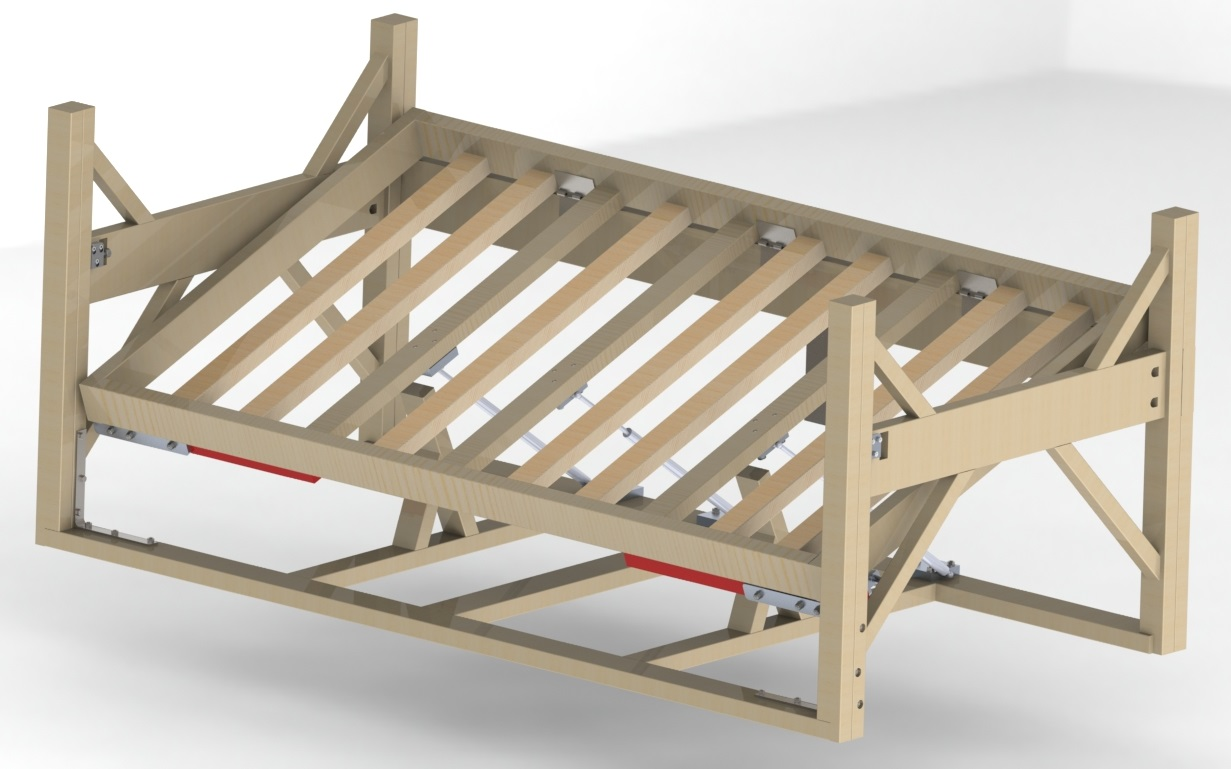
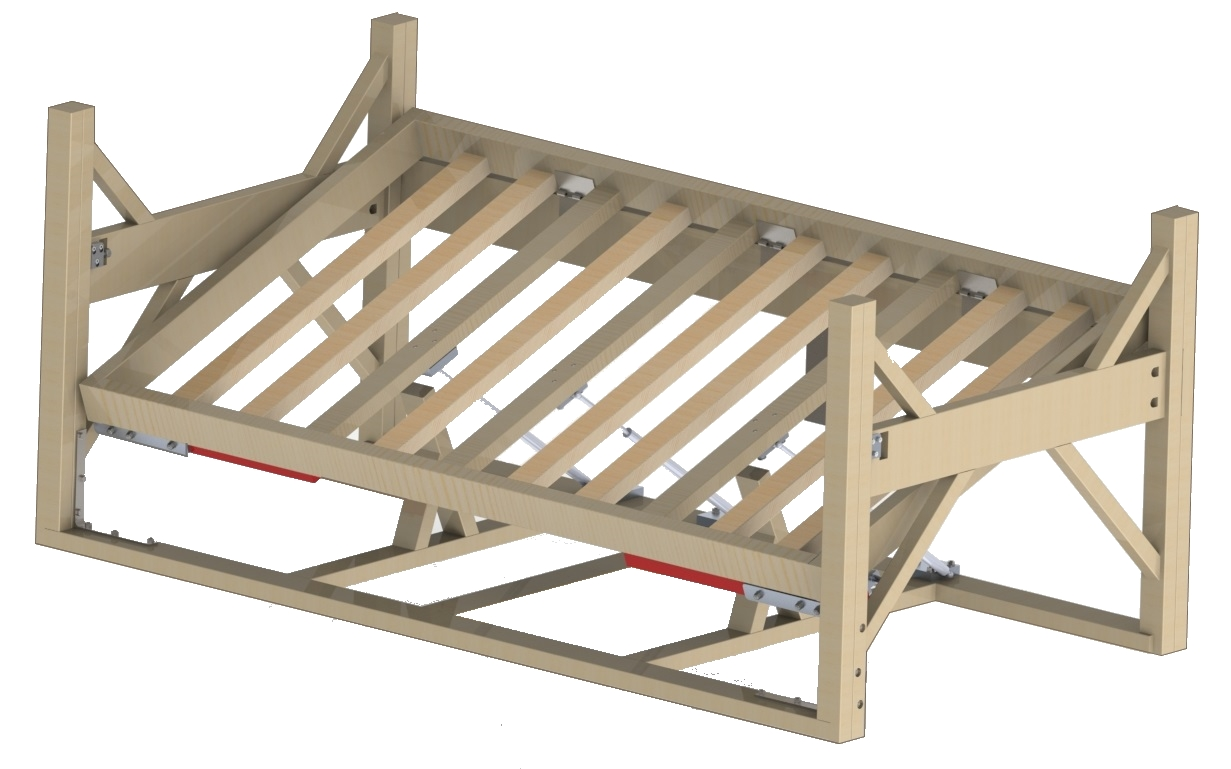
oct 25 update

diff --git a/index.html b/index.html
@@ -117,7 +117,7 @@
         <div class="row">
 		  <div class="col toronto align-self-center"></div>
           <div class="col-8">
-            <p class="lead mb-2">My name is Kelvin and I am a prospective PhD student. Currently, I am a masters student at the University of Toronto pursuing research in the fields of organ-on-a-chip, bioprinting, and tissue engineering. I completed my bachelors at the University of Waterloo in Mechanical Engineering.  Please feel free to browse through my collection of engineering-focused projects I have worked on over the last 3 years. I have indicated where necessary the work I take zero credit for.</p>
+            <p class="lead mb-2">My name is Kelvin and I am a prospective PhD student. Currently, I am a master's student at the University of Toronto pursuing research in the fields of organ-on-a-chip, bioprinting, and tissue engineering. I completed my bachelor's degree at the University of Waterloo in Mechanical Engineering.  Please feel free to browse through my collection of engineering-focused projects I have worked on over the last 3 years. I have indicated where necessary the work I take no credit for.</p>
           </div>
 		  <div class="col waterloo align-self-center"></div>
         </div>
@@ -140,7 +140,7 @@
 				<h2>Reconfigurable Display </h2>
 				<h3 class="mb-2">Can you fit a laptop into your pocket? </h3>
 				</div>
-					<p>Moore's law drives technological advancement to make electronics smaller, true for most cases.  Yet, the cellphone, arguably the most pervasive electronic device, defies this trend.  Why is this?  One reason is the trade-off between convenience and practicality.  People would rather carry around a lightweight phone in their pocket.  Most people also want large electronic displays, which offer more utility.  The electronic display is the geometric constraint of cell phones, tablets, and laptops.  A device with a reconfigurable display would maximize the convenience and utility benefit of electronic devices.</p>
+					<p>Moore's law drives technological advancement to make electronics smaller, true for most cases.  However, the cellphone, arguably the most pervasive electronic device, defies this trend.  Why is this?  One reason is the trade-off between convenience and practicality.  People would rather carry around a lightweight phone in their pocket.  Most people also want large electronic displays, which offer more utility.  The electronic display is the geometric constraint of cell phones, tablets, and laptops.  A device with a reconfigurable display would maximize the convenience and utility benefit of electronic devices.</p>
 					<p>The general approach in this research field is to place rigid LEDs on soft flexible, stretchable substrates (see figure below).  The key issue with this approach is once the substrate is stretched, the pixel density decreases, reducing the image quality. Also, this approach is dependent on the substrate's mechanical properties, which diminish when stretched.  This project proposes a different approach to this problem. </p>
 				<div class="row">	
 					<figure class="figure col-5">
@@ -179,7 +179,7 @@
 					</figure>
 					<figure class="figure col-5 text-center">
 						<img src="./img/reconfigurable display/link.PNG" class="img-fluid mb-2"></img>
-						<figcaption class="figure-caption text-justify" style="color:white">Upon expansion, the bottom islands need to rise to the top level.  This is done by linking islands on different levels through rigid beams.  The design is constrained to allow 1 DOF between 2 coupled islands. </figcaption>
+						<figcaption class="figure-caption text-justify" style="color:white">Upon expansion, the bottom islands need to rise to the top level.  This is done by linking islands on different levels through rigid beams.  The design is constrained to allow 1 degree of freedom between 2 coupled islands. </figcaption>
 					</figure>
 					<figure class="figure col-3 text-center">
 						<img src="./img/reconfigurable display/hoberman.gif" class="img-fluid rounded-circle mb-2" style="height:12rem"></img>
@@ -225,10 +225,10 @@
 					<div class="col-6 text-center"><img src="./img/reconfigurable display/2x2-lights.png" class="img-fluid" style="height:12rem"></img>
 					<p class="text-justify">The figure on the left shows the expansion and collapsing of a 2x2 version of the reconfigurable display. The figure in the middle shows the scalability of the display using the current prototype manufacturing method of 3D printing.  The prototype's height can be scaled to under a centimetre.  The figure on the top right demonstrates the constant pixel density after expansion.  The green lights show the pixels on the original top layer and the red lights are from the bottom layers.  
 					</p>
-					<p class="text-justify"> This limitation of this design is the large height.  The height to pixel area needs to be reduced, or else these displays would be cube-like objects.  Nevertheless, this design shows a different, counterintuitive approach to flexible displays.</p>					
+					<p class="text-justify"> The limitation of this design is the large height.  The height to pixel area needs to be reduced, or else these displays would be cube-like objects.  Nevertheless, this design shows a different, counterintuitive approach to flexible displays.</p>					
 					</div>
 				</div>	
-				<p><i>*Figures on this slide were taken from <a href="https://doi.org/10.1002/admt.201800344" style="color:white" target="_blank"><u>this paper</u></a>.</i></p>
+				<p><i>*Figures from <a href="https://doi.org/10.1002/admt.201800344" style="color:white" target="_blank"><u>Qaiser et al., Adv. Mater. Technol. (2018)</u></a>.</i></p>
 			</div>
 		</div>
 		<a class="carousel-control-prev" href="#discar" role="button" data-slide="prev">
@@ -335,7 +335,7 @@
 					</div>
 					<div class="col-6">
 						<h4>Static Balance Assessment</h4>
-						<p>An individual is asked to stand on the force plate with their eyes closed as still as possible for 100 seconds. During this time, a centre of position (COP) time series will record and track the involuntary sway of the individual.  For these studies, three performance indicators are taken: root means squared in the (1) anterior-posterior (front to back) and (2) medial-lateral (side to side) direction, and (3) 95% confidence ellipse of the data.</p>
+						<p>An individual is asked to stand on the force plate with their eyes closed as still as possible for 100 seconds. During this time, a centre of position (COP) time series will record and track the involuntary sway of the individual.  For these studies, three performance indicators are taken: root means squared (RMS) in the (1) anterior-posterior (front to back) and (2) medial-lateral (side to side) direction, and (3) 95% confidence ellipse of the data.</p>
 					</div>
 				</div>
 				<div class="row">
@@ -359,7 +359,7 @@
 					<div class="col-6">
 					<p class="mb-4">Seven able-bodied individuals ran through the training session to test the effectiveness of the system. Three out of four games (y-axis) showed bivariate correlation between balance ability (x-axis), indicating the games were appropriately designed.</p> 
 					<h4 class="mb-2">Future Direction</h4>
-					<p>One problem was the clustering of game scores for some games (the y-axis ranges for the ellipse and colour matching games are lower). This made it difficult to distinguish an individual's balance ability with game scores. Immediately after the trial run, this problem was addressed by changing the scoring system to favour individuals who could keep their balance position closer to the centre of the game targets.</p> 
+					<p>One problem was for some games (ellipse and colour matching), everyone had high scores. This made it difficult to distinguish an individual's balance ability with game scores. Immediately after the trial run, this problem was addressed by changing the scoring system to favour individuals who could keep their balance position closer to the centre of the game targets.</p> 
 					<p>The next step would be to conduct another trial run on able-bodied participants, this time incorporating functional electrical stimulation with visual feedback training.  Once done and further system optimizations are performed, the system would be used for clinical trials on individuals with spinal cord injuries to determine the effectiveness of this rehabilitation tool.</p>
 					</div>
 				</div>
@@ -415,12 +415,12 @@
 						<div class="col-7">
 						<h5>1) Mould Design</h5>
 						<img src="./img/microfluidics and bioprinting/device design.png" class="img-fluid" style="height:9rem" align="left"></img>
-						<p>The first step is design.  A reusable mould is typically involved to make multiple devices, so the design is often of the mould instead of the final device.  Here, a 3-layer microfluidic device is shown.  The top and bottom layers are hot embossed, while the middle layer contains lasercut through holes to connect between layers.  The black holes are through holes, the green patterns are alginate channels, and the light blue patterns are CaCl<sub>2</sub> channels.  The centre through holes on the top and bottom layer are for the fluidic inlets.  Fluid flows from the centre of the device and exits at the 16 outlets at the perimeter.</p>
+						<p>The first step is design.  A mould is typically used to make multiple devices, so the design is often of the mould instead of the device.  Here, a 3-layer microfluidic device is shown.  The top and bottom layers are hot embossed, while the middle layer contains lasercut through holes to connect between layers.  The black holes are through holes, the green patterns are alginate channels, and the light blue patterns are CaCl<sub>2</sub> channels.  The centre through holes on the top and bottom layer are for the fluidic inlets.  Fluid flows from the centre of the device and exits at the 16 outlets at the perimeter.</p>
 						</div>
 						<div class="col-5 text-center">
 						<h5>2) Mould Making</h5>
 							<img src="./img/microfluidics and bioprinting/mould making.png" class="img-fluid rounded"></img>
-							<p class="text-justify">Two moulds are required to create the top and bottom layers. a) A PMMA master is micro-milled. (b) An epoxy-based resin is poured onto the master and fills in the cavities. (c) After setting, the stiff elastomeric epoxy is removed from the master and the epoxy mould is created.</p>
+							<p class="text-justify">Two moulds are required to create the top and bottom layers. (a) A PMMA master is micro-milled. (b) An epoxy-based resin is poured onto the master and fills in the cavities. (c) After setting, the stiff elastomeric epoxy is removed from the master and the epoxy mould is created.</p>
 						</div>
 					</div>
 			</div>
@@ -432,7 +432,7 @@
 						<div class="col-5" style="border-right: 2px solid #ccc">
 							<h5>3) Pattern Transfer </h5>
 							<img src="./img/microfluidics and bioprinting/embosser.png" class="img-fluid rounded"></img>
-							<p>The hot embossing process is shown in the schematic, where a mould is pressed against a PMMA slab. The right image shows the resulting embossed PMMA layer.
+							<p>The hot embossing process is shown in the schematic, where a mould is pressed against a PMMA slab. The right image shows the resulting embossed PMMA layer, a replica of the PMMA master.
 							</p>
 							<h5>4) Assembly </h5>
 							<img src="./img/microfluidics and bioprinting/assembled.png" class="img-fluid rounded" align="left" style="height:9rem"></img>
@@ -456,7 +456,7 @@
 								<div class="col-6">
 									<img src="./img/microfluidics and bioprinting/10-dessert.PNG" class="img-fluid rounded" style="height:10rem"></img>
 								</div>
-								<p class="col-6">Here is our dessert on some ice cream.  The dish that was attempted was an Indian dessert, kulfi falooda. For sanitary reasons, the fibers were extruded differently for consumption.</p>
+								<p class="col-6">Falooda is a sugary vermicelli-like fiber. Here are our fibers on some ice cream with an attempt to make an Indian dessert, kulfi falooda. For sanitary reasons, the fibers were extruded differently for consumption.</p>
 							</div>
 						</div>						
 					</div>
@@ -465,7 +465,7 @@
 				<div class="content-section-heading">
 				<h2 class="mx-auto mb-3">Bucatini!</h2>
 				</div>
-					<p>Bucatini is a tube-shaped pasta made from an extrusion process.  With a PDMS microfluidic device, we can produce candied micro-bucatini (alginate-based tubes with sub-millimeter diameters). <a href="https://patents.google.com/patent/US20160068385A1/en" style="color:white" target="_blank"><u>Refer here</u></a> for details on the microfluidic device. Apart from shrinking food to alter taste perception, a dish can be elevated through presentation. Through the controlled deposition of our bucatini extrusion, we can impress with presentation, psychologically enhancing the perception of taste.</p>
+					<p>Bucatini is a tube-shaped pasta made from an extrusion process.  With a PDMS microfluidic device, we can produce candied micro-bucatini (alginate-based tubes with sub-millimeter diameters). <a href="https://patents.google.com/patent/US20160068385A1/en" style="color:white" target="_blank"><u>Refer here</u></a> for details on the microfluidic device. Apart from shrinking food to alter food texture, a dish can be elevated through presentation. Through the controlled deposition of our bucatini extrusion, we can entice with presentation, psychologically enhancing the perception of taste.</p>
 					<div class="row text-center">
 						<div class="col-6">
 							<img src="./img/microfluidics and bioprinting/printer.png" class="img-fluid rounded" style="height:17rem"></img>
@@ -518,7 +518,7 @@
     </section>
 	
 	<!-- Car Side Mirror -->
-	 <section class="portfolio bg-info text-white text-center" id="car">
+	 <section class="portfolio bg-danger text-white text-center" id="car">
       <div class="container carousel slide" id="carcar" data-ride="carousel" data-interval="0">
 	  <ol class="carousel-indicators">
 		<li data-target="#carcar" data-slide-to="0" class="active"></li>
@@ -620,7 +620,7 @@
     </section>
 
     <!-- Tilting Alarm Bed -->
-	<section class="portfolio bg-danger text-white text-center" id="bed">
+	<section class="portfolio bg-info text-white text-center" id="bed">
       <div class="container carousel slide" id="bedcar" data-ride="carousel" data-interval="0">
 	  <ol class="carousel-indicators">
 		<li data-target="#bedcar" data-slide-to="0" class="active"></li>
@@ -644,7 +644,7 @@
 				</div>
 					<div class="row">
 						<div class="col-8">
-						<img src="./img/tilting alarm bed/render.JPG" class="img-fluid rounded"></img>
+						<img src="./img/tilting alarm bed/render.png" class="img-fluid rounded"></img>
 						</div>
 						<div class="col-4 align-self-center">
 						<p>Introducing the solution to all your morning problems.  A bed that literally kicks you out of bed.  The tilting alarm bed acts as a normal bed unless the alarm is triggered.  Once activated, a latch mechanism retracts causing one side of the bed to tilt over along with you.   The bed will no longer lock in horizontal position for 30 minutes after activation, forcing you to not only wake up, but not climb back into bed. Stay woke.</p>
@@ -670,23 +670,23 @@
 				<div class="content-section-heading">
 				<h2 class="mx-auto mb-3">Putting it Together</h2>
 				</div>	
-				<p class="mb-4"> After the design was finalized, a trip to Home Depot was planned.  After days of arduous labour, the bed was built.  Below are a few components that make up the bed, specifically the mechanisms involved with triggering the alarm.  </p> 
+				<p class="mb-4"> After the design was finalized, a trip to Home Depot was planned.  After weeks of arduous labour, the bed was built.  Below are a few components that make up the bed, specifically the mechanisms involved with triggering the alarm.  </p> 
 				<div class="row">
 					<div class="col-6">
 						<img src="./img/tilting alarm bed/small1.jpg" class="img-fluid rounded"></img>
-						<figcaption class="figure-caption text-white text-center"><font size="-1">All disassembled parts and sub-assemblies of the bed.</font></figcaption>
+						<figcaption class="figure-caption text-white text-center" style="line-height:1.1rem"><font size="-1">All disassembled parts and sub-assemblies of the bed.</font></figcaption>
 					</div>
 					<figure class="figure col-2">
 						<img src="./img/tilting alarm bed/small2.PNG" class="img-fluid rounded"></img>
-						<figcaption class="figure-caption text-white"><font size="-1">Latch assembly for actuation of the bed.  Retract to trigger, extend to lock.</font></figcaption>
+						<figcaption class="figure-caption text-white" style="line-height:1.1rem"><font size="-1">Latch assembly for actuation of the bed.  Retract to trigger, extend to lock.</font></figcaption>
 					</figure>
 					<figure class="figure col-2">
 						<img src="./img/tilting alarm bed/small3.jpg" class="img-fluid rounded"></img>
-						<figcaption class="figure-caption text-white"><font size="-1">A limit switch fixed to the back post is used to detect the position of the top frame.</font></figcaption>
+						<figcaption class="figure-caption text-white" style="line-height:1.1rem"><font size="-1">A limit switch fixed to the back post is used to detect the position of the top frame.</font></figcaption>
 					</figure>
 					<figure class="figure col-2">
 						<img src="./img/tilting alarm bed/small4.png" class="img-fluid rounded"></img>
-						<figcaption class="figure-caption text-white"><font size="-1">The actuation of the latch is triggered by a POC app via Bluetooth.</font></figcaption>
+						<figcaption class="figure-caption text-white" style="line-height:1.1rem"><font size="-1">The actuation of the latch is triggered by a POC app via Bluetooth.</font></figcaption>
 					</figure>
 				</div>
 			</div>
@@ -702,7 +702,7 @@
 							<img src="./img/tilting alarm bed/final.jpg" class="img-fluid rounded"></img>
 							</div>
 						</div>
-						<p> Here is the bed in action. Instead of the traditional approach of waking up through sound, this bed uses the sense of (an excessively aggressive) touch.  This alarm clock comes with the Blue Clock certification of a 100% guarantee of waking someone up.  Although promising in its effectiveness, further persistence of getting this product to market would be met with too many lawsuits. 
+						<p> Here is the bed in action. Instead of the traditional approach of waking up through sound, this bed uses the sense of (an excessively aggressive) touch.  This alarm clock comes with the Blue Clock certification of a 100% guarantee of waking someone up.  Although promising in its effectiveness, further persistence of getting this product to market would be met with too many lawsuits. RIP Blue Clock (2015-2015).
 			</div>
 		</div>
 		<a class="carousel-control-prev" href="#bedcar" role="button" data-slide="prev">
